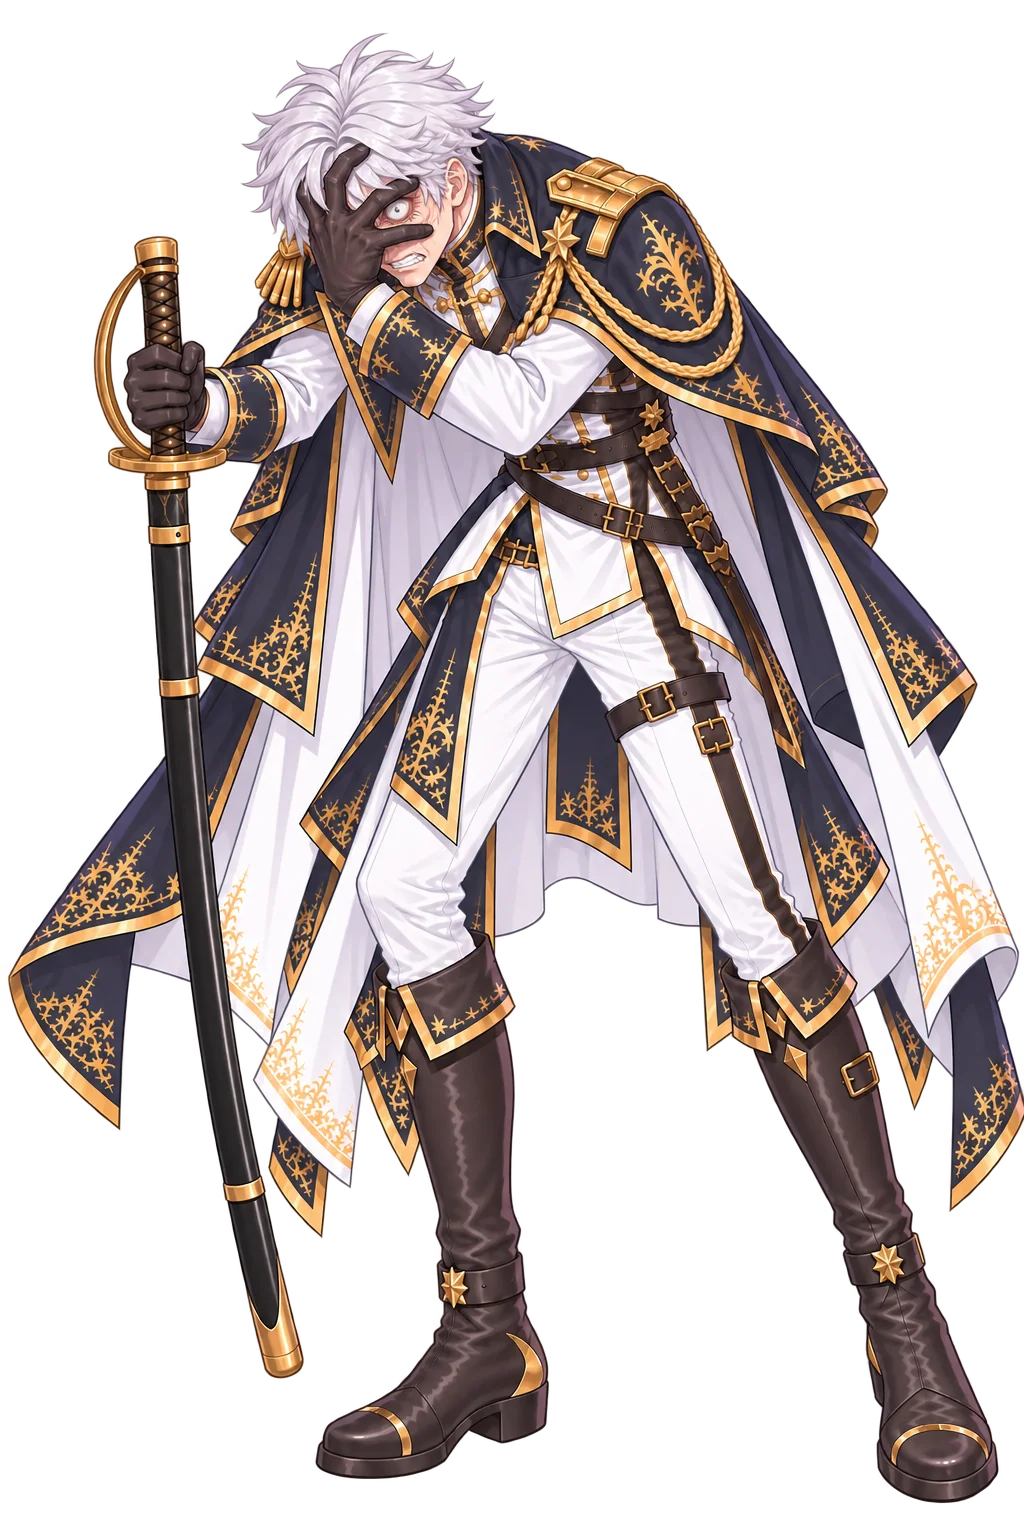
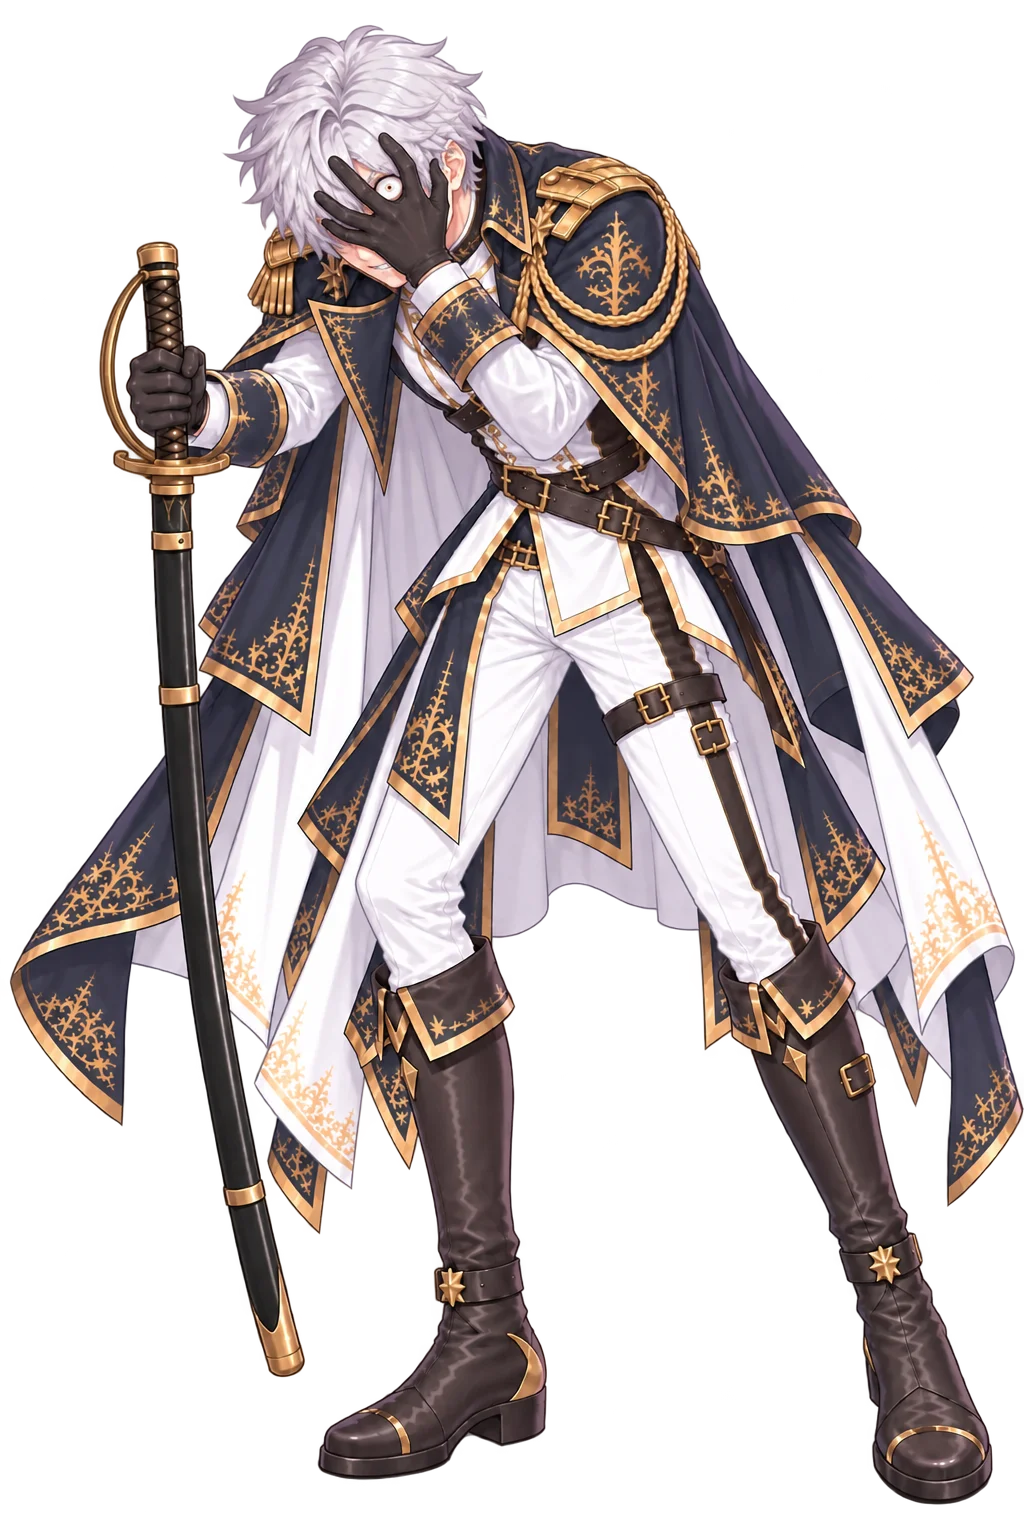
ver -2349 米夏 抓臉／暴走 再重畫：以 wound 為底（畫風照原圖）、手蓋半臉露暴走眼；暴走版大手用力、恨而銳利的紅光眼、碎裂紫光翼

Changed region(s): [[0.0, 0.0, 1.0, 1.0], [0.3125, 0.7812, 0.5312, 0.9688]]

diff --git a/index.html b/index.html
@@ -16,7 +16,7 @@
 <link rel="apple-touch-icon" href="resources/background/tivot_emblem.png?v=9220f8bb">
 <title>TIVOT</title>
 <!-- 全域鎖直向（真鎖 + 橫向擋板）；classic script，需在版面就緒前掛上 -->
-<script src="orientation.js?v=2348"></script>
+<script src="orientation.js?v=2349"></script>
 <!-- 離線包（ver -2256）：註冊 sw.js；主畫面 App 裡出現「下載離線包」鈕 -->
 <script src="offline.js"></script>
 <!-- ══ 效能探針・計數層（ver -850，Ray：「沒有辦法寫一個偵測程式進去看是什麼
@@ -65,74 +65,74 @@
 <script type="importmap">
 {
   "imports": {
-    "./audio.js": "./audio.js?v=2348",
-    "./config.js": "./config.js?v=2348",
-    "./i18n.js": "./i18n.js?v=2348",
-    "./main.js": "./main.js?v=2348",
-    "./offline.js": "./offline.js?v=2348",
-    "./orientation.js": "./orientation.js?v=2348",
-    "./state.js": "./state.js?v=2348",
-    "./sw.js": "./sw.js?v=2348",
-    "./telemetry.js": "./telemetry.js?v=2348",
-    "./modules/beatpick.js": "./modules/beatpick.js?v=2348",
-    "./modules/blink.js": "./modules/blink.js?v=2348",
-    "./modules/breath.js": "./modules/breath.js?v=2348",
-    "./modules/combat.js": "./modules/combat.js?v=2348",
-    "./modules/defense.js": "./modules/defense.js?v=2348",
-    "./modules/enemy.js": "./modules/enemy.js?v=2348",
-    "./modules/eyefx.js": "./modules/eyefx.js?v=2348",
-    "./modules/gear.js": "./modules/gear.js?v=2348",
-    "./modules/groundShadow.js": "./modules/groundShadow.js?v=2348",
-    "./modules/haptics.js": "./modules/haptics.js?v=2348",
-    "./modules/inn.js": "./modules/inn.js?v=2348",
-    "./modules/inspector.js": "./modules/inspector.js?v=2348",
-    "./modules/loot.js": "./modules/loot.js?v=2348",
-    "./modules/partner.js": "./modules/partner.js?v=2348",
-    "./modules/saint.js": "./modules/saint.js?v=2348",
-    "./modules/sakura.js": "./modules/sakura.js?v=2348",
-    "./modules/save.js": "./modules/save.js?v=2348",
-    "./modules/settings.js": "./modules/settings.js?v=2348",
-    "./modules/story.js": "./modules/story.js?v=2348",
-    "./modules/sway.js": "./modules/sway.js?v=2348",
-    "./modules/tone.js": "./modules/tone.js?v=2348",
-    "./modules/town.js": "./modules/town.js?v=2348",
-    "./modules/transition.js": "./modules/transition.js?v=2348",
-    "./modules/tutorial.js": "./modules/tutorial.js?v=2348",
-    "./modules/weapon.js": "./modules/weapon.js?v=2348",
-    "./script/bg_index.js": "./script/bg_index.js?v=2348",
-    "./script/blink.js": "./script/blink.js?v=2348",
-    "./script/clock.js": "./script/clock.js?v=2348",
-    "./script/enemies.js": "./script/enemies.js?v=2348",
-    "./script/evaluation.js": "./script/evaluation.js?v=2348",
-    "./script/eyefx.js": "./script/eyefx.js?v=2348",
-    "./script/inventory.js": "./script/inventory.js?v=2348",
-    "./script/loadout.js": "./script/loadout.js?v=2348",
-    "./script/mainScript.js": "./script/mainScript.js?v=2348",
-    "./script/progress.js": "./script/progress.js?v=2348",
-    "./script/shopcards.js": "./script/shopcards.js?v=2348",
-    "./script/shopstock.js": "./script/shopstock.js?v=2348",
-    "./script/speakers.js": "./script/speakers.js?v=2348",
-    "./script/sway.js": "./script/sway.js?v=2348",
-    "./script/town.js": "./script/town.js?v=2348",
-    "./script/weapons.js": "./script/weapons.js?v=2348",
-    "./i18n/en.js": "./i18n/en.js?v=2348",
-    "./i18n/es.js": "./i18n/es.js?v=2348",
-    "./i18n/ja.js": "./i18n/ja.js?v=2348",
-    "./i18n/scriptTr.js": "./i18n/scriptTr.js?v=2348",
-    "./i18n/zh.js": "./i18n/zh.js?v=2348",
-    "./i18n/script/es.classic.js": "./i18n/script/es.classic.js?v=2348",
-    "./i18n/script/es.js": "./i18n/script/es.js?v=2348",
-    "./i18n/ui/es.classic.js": "./i18n/ui/es.classic.js?v=2348",
-    "./i18n/ui/es.js": "./i18n/ui/es.js?v=2348"
+    "./audio.js": "./audio.js?v=2349",
+    "./config.js": "./config.js?v=2349",
+    "./i18n.js": "./i18n.js?v=2349",
+    "./main.js": "./main.js?v=2349",
+    "./offline.js": "./offline.js?v=2349",
+    "./orientation.js": "./orientation.js?v=2349",
+    "./state.js": "./state.js?v=2349",
+    "./sw.js": "./sw.js?v=2349",
+    "./telemetry.js": "./telemetry.js?v=2349",
+    "./modules/beatpick.js": "./modules/beatpick.js?v=2349",
+    "./modules/blink.js": "./modules/blink.js?v=2349",
+    "./modules/breath.js": "./modules/breath.js?v=2349",
+    "./modules/combat.js": "./modules/combat.js?v=2349",
+    "./modules/defense.js": "./modules/defense.js?v=2349",
+    "./modules/enemy.js": "./modules/enemy.js?v=2349",
+    "./modules/eyefx.js": "./modules/eyefx.js?v=2349",
+    "./modules/gear.js": "./modules/gear.js?v=2349",
+    "./modules/groundShadow.js": "./modules/groundShadow.js?v=2349",
+    "./modules/haptics.js": "./modules/haptics.js?v=2349",
+    "./modules/inn.js": "./modules/inn.js?v=2349",
+    "./modules/inspector.js": "./modules/inspector.js?v=2349",
+    "./modules/loot.js": "./modules/loot.js?v=2349",
+    "./modules/partner.js": "./modules/partner.js?v=2349",
+    "./modules/saint.js": "./modules/saint.js?v=2349",
+    "./modules/sakura.js": "./modules/sakura.js?v=2349",
+    "./modules/save.js": "./modules/save.js?v=2349",
+    "./modules/settings.js": "./modules/settings.js?v=2349",
+    "./modules/story.js": "./modules/story.js?v=2349",
+    "./modules/sway.js": "./modules/sway.js?v=2349",
+    "./modules/tone.js": "./modules/tone.js?v=2349",
+    "./modules/town.js": "./modules/town.js?v=2349",
+    "./modules/transition.js": "./modules/transition.js?v=2349",
+    "./modules/tutorial.js": "./modules/tutorial.js?v=2349",
+    "./modules/weapon.js": "./modules/weapon.js?v=2349",
+    "./script/bg_index.js": "./script/bg_index.js?v=2349",
+    "./script/blink.js": "./script/blink.js?v=2349",
+    "./script/clock.js": "./script/clock.js?v=2349",
+    "./script/enemies.js": "./script/enemies.js?v=2349",
+    "./script/evaluation.js": "./script/evaluation.js?v=2349",
+    "./script/eyefx.js": "./script/eyefx.js?v=2349",
+    "./script/inventory.js": "./script/inventory.js?v=2349",
+    "./script/loadout.js": "./script/loadout.js?v=2349",
+    "./script/mainScript.js": "./script/mainScript.js?v=2349",
+    "./script/progress.js": "./script/progress.js?v=2349",
+    "./script/shopcards.js": "./script/shopcards.js?v=2349",
+    "./script/shopstock.js": "./script/shopstock.js?v=2349",
+    "./script/speakers.js": "./script/speakers.js?v=2349",
+    "./script/sway.js": "./script/sway.js?v=2349",
+    "./script/town.js": "./script/town.js?v=2349",
+    "./script/weapons.js": "./script/weapons.js?v=2349",
+    "./i18n/en.js": "./i18n/en.js?v=2349",
+    "./i18n/es.js": "./i18n/es.js?v=2349",
+    "./i18n/ja.js": "./i18n/ja.js?v=2349",
+    "./i18n/scriptTr.js": "./i18n/scriptTr.js?v=2349",
+    "./i18n/zh.js": "./i18n/zh.js?v=2349",
+    "./i18n/script/es.classic.js": "./i18n/script/es.classic.js?v=2349",
+    "./i18n/script/es.js": "./i18n/script/es.js?v=2349",
+    "./i18n/ui/es.classic.js": "./i18n/ui/es.classic.js?v=2349",
+    "./i18n/ui/es.js": "./i18n/ui/es.js?v=2349"
   }
 }
 </script>
 <!-- BUST:END -->
-<link rel="stylesheet" href="style.css?v=2348">
+<link rel="stylesheet" href="style.css?v=2349">
   <!-- 拾得道具／道具欄／商店／懸賞榜（ver -380 抽出，飛行頁共用同一份）。
        ⚠ `data-lootsheet` 是給 `modules/loot.js` 認的：它看到已經掛過就不再掛一次。
          飛行頁沒有這一行，由那支模組自己掛上去。 -->
-  <link rel="stylesheet" href="css/lootsheet.css?v=2348" data-lootsheet="1">
+  <link rel="stylesheet" href="css/lootsheet.css?v=2349" data-lootsheet="1">
 <!-- 主畫面 App（standalone）偵測：首繪前在 <html> 蓋 .standalone，
      供 CSS 修 iOS 26 版面視窗少算頂部安全區高度（底部露黑帶）的問題 -->
 <script>
@@ -778,6 +778,6 @@
      ⚠ src 是**按下去才給**的（lazy）：不然每次開機都要多載一整個飛行頁。 -->
 <iframe id="flightFrame" title="飛行"></iframe>
 
-<script type="module" src="main.js?v=2348"></script>
+<script type="module" src="main.js?v=2349"></script>
 </body>
 </html>

diff --git a/flight/index.html b/flight/index.html
@@ -3,7 +3,7 @@
 <head>
 <meta charset="utf-8">
 <meta name="viewport" content="width=device-width,initial-scale=1,maximum-scale=1,user-scalable=no,viewport-fit=cover">
-<script src="../orientation.js?v=2348"></script>
+<script src="../orientation.js?v=2349"></script>
 <script>
 /* 介面字譯文（ver -1909）：這一頁是非模組，程式一開跑就讀字串 —— 所以譯文表要**同步**載
    （document.write，只在選了有譯文的語言時）。語言判定與 i18n.js 的 LANG 同一套
@@ -11,7 +11,7 @@
 (function(){
   var l=null; try{ l=localStorage.getItem('tivot.lang'); }catch(e){}
   if(!l){ try{ var n=(navigator.languages&&navigator.languages[0])||navigator.language||''; if(String(n).toLowerCase().indexOf('es')===0) l='es'; }catch(e){} }
-  if(['es'].indexOf(l)>=0) document.write('<script src="../i18n/script/'+l+'.classic.js?v=2348"><\/script><script src="../i18n/ui/'+l+'.classic.js?v=2348"><\/script>');
+  if(['es'].indexOf(l)>=0) document.write('<script src="../i18n/script/'+l+'.classic.js?v=2349"><\/script><script src="../i18n/ui/'+l+'.classic.js?v=2349"><\/script>');
 })();
 function i18nT(s){ var t=window.__TIVOT_TR; return (t && typeof s==='string' && t[s]!=null) ? t[s] : s; }
 document.addEventListener('DOMContentLoaded', function(){
@@ -236,7 +236,7 @@ document.addEventListener('DOMContentLoaded', function(){
   /* ver -2217：門圖含楣（kerberos_gate，＝主遊戲同一張）—— 底圖往上延伸到楣的上緣（--fk-gate-top，負值，layoutFKerb 寫）。
      畫在 ::before：門的子元素（紋章／箭／鉚釘）排在它之後，自然疊在上面。 */
   #fkerbDoor::before{content:'';position:absolute;left:0;right:0;top:var(--fk-gate-top,0px);bottom:0;
-    background-image:url('../resources/vfx/kerberos_gate.webp?v=2348');
+    background-image:url('../resources/vfx/kerberos_gate.webp?v=2349');
     background-repeat:no-repeat;background-size:100% 100%;pointer-events:none;}
   #fkerb.rise #fkerbDoor{transform:translateY(calc(var(--fkerb-rise,0px) * -1));}
   /* 楣與其餘零件：全部是門的子元素＝同一剛體，門上推它們跟著上去
@@ -259,8 +259,8 @@ document.addEventListener('DOMContentLoaded', function(){
       radial-gradient(circle at 50% 22%, rgba(0,0,0,.72) 40%, rgba(0,0,0,0) 78%);
     box-shadow:inset 0 3px 7px rgba(0,0,0,.85);}
   #fkerbGear .fkg-shine{position:absolute;inset:0;mix-blend-mode:screen;opacity:.8;
-    -webkit-mask-image:url("../resources/vfx/kerberos_gear.webp?v=2348");
-    mask-image:url("../resources/vfx/kerberos_gear.webp?v=2348");
+    -webkit-mask-image:url("../resources/vfx/kerberos_gear.webp?v=2349");
+    mask-image:url("../resources/vfx/kerberos_gear.webp?v=2349");
     -webkit-mask-size:100% 100%;mask-size:100% 100%;
     -webkit-mask-repeat:no-repeat;mask-repeat:no-repeat;
     background:linear-gradient(114deg,
@@ -280,8 +280,8 @@ document.addEventListener('DOMContentLoaded', function(){
     filter:drop-shadow(0 3px 7px rgba(0,0,0,.9)) drop-shadow(0 0 2px rgba(0,0,0,.8));}
   #fkerbPend .fkp-shine{position:absolute;inset:0;pointer-events:none;
     mix-blend-mode:screen;opacity:.85;
-    -webkit-mask-image:url("../resources/vfx/kerberos_pendant.webp?v=2348");
-    mask-image:url("../resources/vfx/kerberos_pendant.webp?v=2348");
+    -webkit-mask-image:url("../resources/vfx/kerberos_pendant.webp?v=2349");
+    mask-image:url("../resources/vfx/kerberos_pendant.webp?v=2349");
     -webkit-mask-size:100% 100%;mask-size:100% 100%;
     -webkit-mask-repeat:no-repeat;mask-repeat:no-repeat;
     background:linear-gradient(114deg,
@@ -646,23 +646,23 @@ img:not([src]), img[src=""], img.img-broken{visibility:hidden !important;}
        ⚠ 要有，否則交棒那一格齒輪會憑空冒出來（同吊墜的理由）。
        ⚠ 排在 `.fk-plate` 之前 ＝ 團徽之下、槍棺之上。 -->
   <div id="fkerbGear"><i class="fkg-well"></i>
-    <img src="../resources/vfx/kerberos_gear.webp?v=2348" alt=""><i class="fkg-shine"></i></div>
+    <img src="../resources/vfx/kerberos_gear.webp?v=2349" alt=""><i class="fkg-shine"></i></div>
   <div id="fkerbGearSm"><i class="fkg-well"></i>
-    <img src="../resources/vfx/kerberos_gear.webp?v=2348" alt=""></div>
-  <img class="fk-plate" src="../resources/vfx/kerberos_plate.webp?v=2348" alt="">
-  <img class="fk-arrow n" src="../resources/vfx/kerberos_arrow.webp?v=2348" alt="">
-  <img class="fk-arrow e" src="../resources/vfx/kerberos_arrow.webp?v=2348" alt="">
-  <img class="fk-arrow s" src="../resources/vfx/kerberos_arrow.webp?v=2348" alt="">
-  <img class="fk-arrow w" src="../resources/vfx/kerberos_arrow.webp?v=2348" alt="">
-  <img class="fk-rivet r10" src="../resources/vfx/kerberos_rivet.webp?v=2348" alt="">
-  <img class="fk-rivet r2"  src="../resources/vfx/kerberos_rivet.webp?v=2348" alt="">
-  <img class="fk-rivet r4"  src="../resources/vfx/kerberos_rivet.webp?v=2348" alt="">
-  <img class="fk-rivet r8"  src="../resources/vfx/kerberos_rivet.webp?v=2348" alt="">
+    <img src="../resources/vfx/kerberos_gear.webp?v=2349" alt=""></div>
+  <img class="fk-plate" src="../resources/vfx/kerberos_plate.webp?v=2349" alt="">
+  <img class="fk-arrow n" src="../resources/vfx/kerberos_arrow.webp?v=2349" alt="">
+  <img class="fk-arrow e" src="../resources/vfx/kerberos_arrow.webp?v=2349" alt="">
+  <img class="fk-arrow s" src="../resources/vfx/kerberos_arrow.webp?v=2349" alt="">
+  <img class="fk-arrow w" src="../resources/vfx/kerberos_arrow.webp?v=2349" alt="">
+  <img class="fk-rivet r10" src="../resources/vfx/kerberos_rivet.webp?v=2349" alt="">
+  <img class="fk-rivet r2"  src="../resources/vfx/kerberos_rivet.webp?v=2349" alt="">
+  <img class="fk-rivet r4"  src="../resources/vfx/kerberos_rivet.webp?v=2349" alt="">
+  <img class="fk-rivet r8"  src="../resources/vfx/kerberos_rivet.webp?v=2349" alt="">
   <!-- 吊墜（ver -412）：與主遊戲同一套（見 index.html 的 #kerbPend 與 style.css）。
        ⚠ 這一頁**必須也有** —— 遭遇時門是在這裡推上來的，交棒之後主遊戲那一半才接手；
          只有一邊掛吊墜的話，交棒那一格會憑空多出一個東西。 -->
   <div id="fkerbPend"><div class="fkp-swing"><div class="fkp-idle">
-    <img src="../resources/vfx/kerberos_pendant.webp?v=2348" alt=""><i class="fkp-shine"></i>
+    <img src="../resources/vfx/kerberos_pendant.webp?v=2349" alt=""><i class="fkp-shine"></i>
   </div></div></div>
 </div></div>
 <div id="boot">
@@ -684,11 +684,11 @@ img:not([src]), img[src=""], img.img-broken{visibility:hidden !important;}
   <div id="bMsg"><small id="bootMsg"></small></div>
 </div>
 
-<script src="settlement.js?v=2348"></script>
+<script src="settlement.js?v=2349"></script>
 <!-- 閒聊對話的**內容**獨立成一支：方便加台詞、加觸發條件而不必碰引擎。
      ⚠ 一般 <script>（非 module）→ TALKS / talkPeriod / talkPick 是全域，
        而且會在下面這段 inline 之前執行完，所以 inline 內可以直接用。 -->
-<script src="talks.js?v=2348"></script>
+<script src="talks.js?v=2349"></script>
 <script>
 /* 破圖框一律不畫（ver -1881，同主頁 main.js 那一支，這一頁是另一個 document）。 */
 document.addEventListener('error', e=>{ const t=e.target; if(t && t.tagName==='IMG') t.classList.add('img-broken'); }, true);
@@ -764,7 +764,7 @@ const COLOR_URL  = 'silvermoon_terrain.png?v=b18827be'  + TERRAIN_V;
    以前是手寫的，於是從 -911 起就沒有人記得動它 —— 而 HUD 上的版本號正是 Ray
    在手機上確認「我現在跑的是哪一版」的唯一依據（鐵律 7：一個量一個計算點；
    ver -626：版本號不動就等於沒有版本號）。**不要手改。** */
-const FLIGHT_VER = 'ver -2348';
+const FLIGHT_VER = 'ver -2349';
 const MAP_SCALE  = 20;
 const INV_SCALE  = 1/MAP_SCALE;
 const PEAK_SCALE = 520;   // 高度圖 255 對應的世界高度（越大山越陡）

diff --git a/script/speakers.js b/script/speakers.js
@@ -1657,8 +1657,8 @@ export const ART = {
     draw:       { src:'resources/si/misha_si_draw.webp?v=68b1b653', top:6, bot:1534, fx:0.434 },   // ver -1728：Ray 新出的拔刀圖（姿勢換了，取景重量；美術 09-25）
     salute:     { src:'resources/si/misha_si_salute.webp', top:9, bot:1520, fx:0.447 },
     side:       { src:'resources/si/misha_si_side.webp', top:16, bot:1512, fx:0.37 },
-    '暴走':     { blink:'off', rescale:true, src:'resources/si/misha_si_coverfaceni.webp?v=90764d71', top:56, bot:1496, fx:0.342 },   // ver -2347（Ray）：同一張加 NI —— 指縫紅光＋臉上裂紋、左後方碎裂紫色光翼（照參考）；top/bot 量的是人不是翼
-    '抓臉':     { blink:'off', src:'resources/si/misha_si_coverface.webp?v=61685e1f', top:33, bot:1503, fx:0.370 },   // ver -2347（Ray）：五指張開用力抓臉、指縫露出瘋狂的眼（照真人參考重畫）
+    '暴走':     { blink:'off', rescale:true, src:'resources/si/misha_si_coverfaceni.webp?v=fc008857', top:72, bot:1505, fx:0.370 },   // ver -2349（Ray）：大手用力抓臉、指縫恨而銳利的紅光眼＋裂紋、左後方碎裂紫光翼；top/bot 量人不量翼
+    '抓臉':     { blink:'off', src:'resources/si/misha_si_coverface.webp?v=fac100ff', top:25, bot:1504, fx:0.400 },   // ver -2349（Ray）：手掌蓋住半張臉、指縫露出暴走的眼（wound 為底，畫風照原圖）
     wound:      { fxShift:0, blink:'off', src:'resources/si/misha_si_wound.webp?v=3a49219d', top:34, bot:1499, fx:0.403 },
     close:      { src:'resources/si/misha_si_close.webp?v=47dd4349', top:14, bot:1509, fx:0.469 },
     back:       { src:'resources/si/misha_si_back.webp', top:12, bot:1496, fx:0.458 },

diff --git a/config.js b/config.js
@@ -87,7 +87,7 @@ export const HITFX = {
  *     以為是快取卡住 —— 版本號不動就等於沒有版本號）。
  *  ⚠ 它同時是**暖開機戳記的鑰匙**（main.js 的 `WARM_BOOT`）：版本一變，
  *    上一版的戳記就失效 → 下一次開機重跑完整讀取。那正是改版後該有的行為。 */
-export const VERSION = 'ver 2026.11.01-2348';
+export const VERSION = 'ver 2026.11.01-2349';
 
 /* ══ 空中怪 16 隻的戰鬥卡（ver -2268）══ 每一隻一張 `flight_<鍵>`（飛行頁 `battleIdFor` 的命名），
    內容同羽蛇那一場：船戰、艦載武器音、連射間隔 180ms。⚠ 這份鍵清單在三處：這裡／
@@ -6152,8 +6152,8 @@ export const ASSET_VER = {
   'misha_si_closeopen': '102292c5',
   'misha_si_closeopen_closed': '658c29c2',
   'misha_si_closeopen_half': '0379d48b',
-  'misha_si_coverface': '61685e1f',
-  'misha_si_coverfaceni': '90764d71',
+  'misha_si_coverface': 'fac100ff',
+  'misha_si_coverfaceni': 'fc008857',
   'misha_si_draw': '68b1b653',
   'misha_si_draw_closed': 'ff69810f',
   'misha_si_draw_half': '45f86f5a',

diff --git a/modules/story.js b/modules/story.js
@@ -3588,7 +3588,7 @@ const KERB_DIR='resources/vfx/';
    cache-buster（§5：檔名沒變、內容變了，瀏覽器照樣拿舊的那一份，而症狀只是
    「看起來沒變」）。版本號由 `tools/bust.py` 同步，路徑只由 `kerbUrl()` 組（鐵律 8）——
    飛行頁那一半是另一個 document，各有一份，改一邊要改另一邊。 */
-const KERB_V='?v=2348';
+const KERB_V='?v=2349';
 const kerbUrl=n=>KERB_DIR+n+'.webp'+KERB_V;
 /* 門的圖（ver -2218）：**每一道門都要先載完**（劇情讀取頁 `preloadStory`、城鎮那道 `loadScene`）——
    Ray：「讀圖的時候先跑槍棺出來才讀楣」「往上推的時候楣會消失」：合成後的 `kerberos_gate`（門＋楣）
